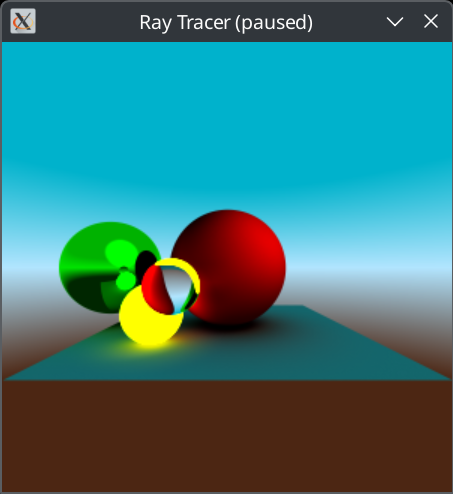
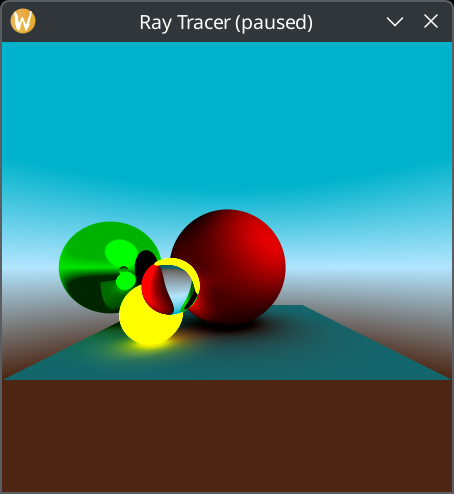
Hihg resoluton

diff --git a/src/main.rs b/src/main.rs
@@ -16,10 +16,12 @@ use sdl2::pixels::Color;
 
 fn main() {
     let sdl_ctx = sdl2::init().unwrap();
+    sdl2::hint::set("SDL_VIDEODRIVER", "wayland");
     let vid_ctx = sdl_ctx.video().unwrap();
     let window = vid_ctx
         .window("Ray Tracer", 300, 300)
         .position_centered()
+        .allow_highdpi()
         .build()
         .unwrap();
     let mut canvas = window.into_canvas().build().unwrap();
